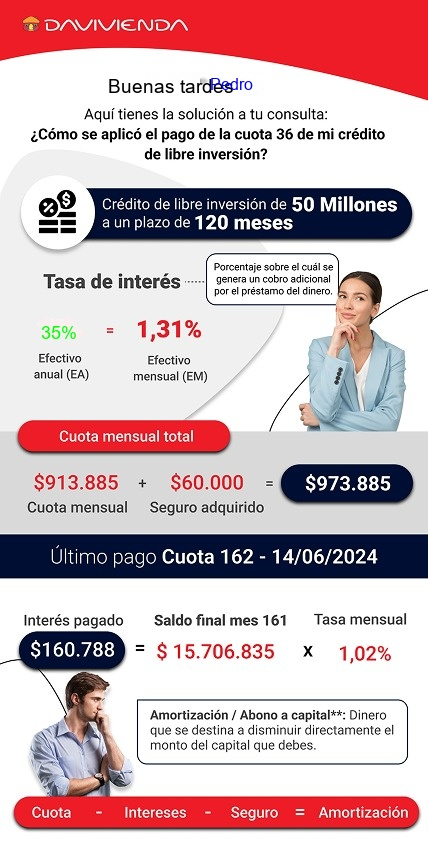
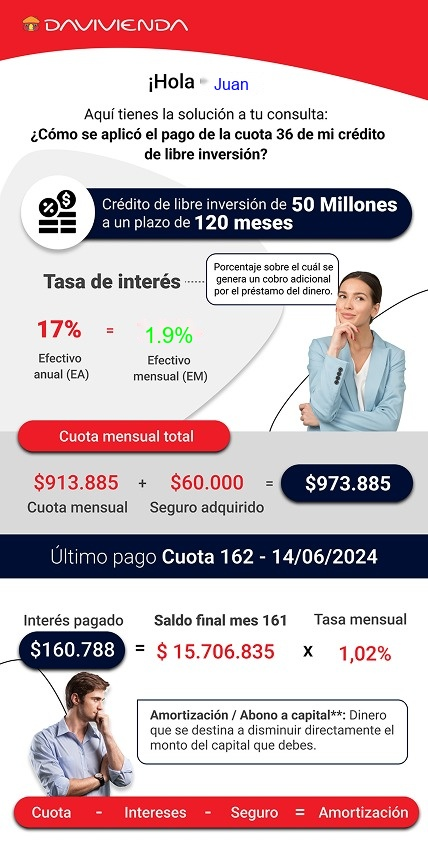
Codigos unidos

Changed region(s): [[0.243, 0.0923, 0.5771, 0.1231], [0.3037, 0.3692, 0.486, 0.4308], [0.0911, 0.3692, 0.1822, 0.4]]

diff --git a/chat2.py b/chat2.py
@@ -1,0 +1,122 @@
+import tkinter as tk
+from groq import Groq
+import subprocess
+
+# Configura tu clave de API de Groq
+client = Groq(api_key="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")  # <-- Pega tu API Key de Groq aquí
+
+# Palabras clave para detectar temas bancarios
+PALABRAS_CLAVE = ["interés", "intereses", "crédito", "capital", "cuota", "financiación", "financiamiento", "deuda", "plazo"]
+
+
+cedula_usuario = None
+
+def set_cedula(cedula):
+    global cedula_usuario
+    cedula_usuario = cedula
+
+def contiene_tema_relevante(texto):
+    texto = texto.lower()
+    return any(palabra in texto for palabra in PALABRAS_CLAVE)
+
+# def responder_mensaje(mensaje_usuario):
+#     try:
+#         respuesta = client.chat.completions.create(
+#             model="mixtral-8x7b-32768",
+#             messages=[
+#                 {
+#                     "role": "system",
+#                     "content": "Eres un asesor bancario experto. Tu objetivo es ayudar a los usuarios con dudas relacionadas con productos financieros, tasas de interés, créditos, simulaciones, inversiones y educación financiera. Responde de forma clara, amigable y profesional."
+#                 },
+#                 {
+#                     "role": "user",
+#                     "content": pregunta
+#                 }
+#             ]
+#         )
+#         respuesta_texto = respuesta.choices[0].message.content.strip()
+#     except Exception as e:
+#         respuesta_texto = f"Lo siento, ocurrió un error: {e}"
+
+def enviar_mensaje():
+    
+    pregunta = entry_usuario.get().strip()
+    if pregunta == "":
+        return
+
+    entry_usuario.delete(0, tk.END)
+    caja_texto.config(state="normal")
+    caja_texto.insert(tk.END, f"🧑 Tú: {pregunta}\n")
+    caja_texto.config(state="disabled")
+
+    # Palabras clave financieras
+    palabras_clave = ["interés", "intereses", "crédito", "créditos", "capital", "cuota", "cuotas"]
+    mensaje_tiene_palabras_clave = any(palabra in pregunta.lower() for palabra in palabras_clave)
+
+    try:
+        # Llamada a Groq con rol de asesor bancario
+        respuesta = client.chat.completions.create(
+            model="llama-3.3-70b-versatile",
+            messages=[
+                {
+                    "role": "system",
+                    "content": "Eres un asesor bancario experto llamado Vivi. Tu objetivo es ayudar a los usuarios con dudas relacionadas con productos financieros, tasas de interés, créditos, simulaciones, inversiones y educación financiera. Responde de forma clara, amigable y profesional. En el primer mensaje preséntate como Hola soy Vivi, un asistente de Davivienda, ¿En qué puedo ayudarte hoy?"
+                },
+                {
+                    "role": "user",
+                    "content": pregunta
+                }
+            ]
+        )
+
+        # Si hay palabras clave, da una respuesta más corta
+        if mensaje_tiene_palabras_clave:
+            respuesta_texto = "📊 Tengo un contenido para ti sobre este tema."
+        else:
+            respuesta_texto = respuesta.choices[0].message.content.strip()
+
+    except Exception as e:
+        respuesta_texto = f"Lo siento, ocurrió un error: {e}"
+
+    # Mostrar la respuesta del asistente
+    caja_texto.config(state="normal")
+    caja_texto.insert(tk.END, f"🤖 Vivi: {respuesta_texto}\n")
+    caja_texto.config(state="disabled")
+    caja_texto.see(tk.END)
+
+    # Mostrar botón justo debajo del mensaje si aplica
+    if mensaje_tiene_palabras_clave:
+        frame_boton = tk.Frame(caja_texto, bg="#F0F0F0")  # Fondo para que se vea mejor
+        boton_infografia = tk.Button(frame_boton, text="📥 Generar Infografía", command=generar_infografia)
+        boton_infografia.pack(pady=2)
+        caja_texto.window_create(tk.END, window=frame_boton)
+        caja_texto.insert(tk.END, "\n")
+        caja_texto.see(tk.END)
+
+def generar_infografia():
+    subprocess.run(["python", "imagen.py",cedula_usuario])
+
+def mostrar_chat_ai(root):
+    global caja_texto, entry_usuario, boton_infografia
+
+    ventana_chat = tk.Toplevel(root)
+    ventana_chat.title("Asistente Bancario")
+    ventana_chat.geometry("360x500")
+    ventana_chat.resizable(False, False)
+
+    caja_texto = tk.Text(ventana_chat, wrap="word", state="disabled", font=("Helvetica", 10), bg="#f8f8f8")
+    caja_texto.pack(expand=True, fill="both", padx=10, pady=10)
+
+    frame_entry = tk.Frame(ventana_chat)
+    frame_entry.pack(fill="x", padx=10, pady=(0, 10))
+
+    entry_usuario = tk.Entry(frame_entry, font=("Helvetica", 10))
+    entry_usuario.pack(side="left", expand=True, fill="x", padx=(0, 10))
+    entry_usuario.bind("<Return>", lambda event: enviar_mensaje())
+
+    boton_enviar = tk.Button(frame_entry, text="Enviar", command=enviar_mensaje, bg="#E0111B", fg="white")
+    boton_enviar.pack(side="right")
+
+    # Botón para generar infografía (oculto por defecto)
+    boton_infografia = tk.Button(ventana_chat, text="Generar Infografía", command=generar_infografia, bg="#0d6efd", fg="white")
+    boton_infografia.pack_forget()

diff --git a/Interfaz.py b/Interfaz.py
@@ -3,10 +3,18 @@ from ttkbootstrap.constants import *
 from PIL import Image, ImageTk
 import pandas as pd
 import tkinter.messagebox as msg
+from tkinter import messagebox
 import tkinter as tk  # Agregado para botón con más control visual
+import subprocess
+
+import chat2
+from chat2 import mostrar_chat_ai
+
+
+
 
 # Cargar base de datos
-bd_path = "D:/Pasantia/Learny/BD.xlsx"
+bd_path = "BD.xlsx"
 df = pd.read_excel(bd_path)
 df["Cedula"] = df["Cedula"].astype(str).str.replace(".0", "", regex=False)
 df["Clave"] = df["Clave"].astype(str).str.replace(".0", "", regex=False)
@@ -42,12 +50,15 @@ def clear():
 # --------------------------
 # PANTALLAS
 # --------------------------
+
+#######################################################
+
 def mostrar_pantalla_inicio():
     clear()
     canvas = ttk.Canvas(root, width=360, height=750)
     canvas.pack()
 
-    imagen_inicio = Image.open("D:/Pasantia/Learny/IMG/Imagen1.png").resize((360, 750))
+    imagen_inicio = Image.open("IMAGENES/Imagen1.png").resize((360, 750))
     bg_img1 = ImageTk.PhotoImage(imagen_inicio)
     canvas.create_image(0, 0, anchor="nw", image=bg_img1)
     canvas.bg_img = bg_img1
@@ -60,7 +71,7 @@ def mostrar_pantalla_login():
     canvas = ttk.Canvas(root, width=360, height=750)
     canvas.pack()
 
-    imagen_login = Image.open("D:/Pasantia/Learny/IMG/Imagen2.png").resize((360, 750))
+    imagen_login = Image.open("IMAGENES/Imagen2.png").resize((360, 750))
     bg_img2 = ImageTk.PhotoImage(imagen_login)
     canvas.create_image(0, 0, anchor="nw", image=bg_img2)
     canvas.bg_img = bg_img2
@@ -94,12 +105,15 @@ def mostrar_pantalla_login():
 
     def verificar_entrada(event):
         cedula = entry_documento.get().strip()
+        if cedula:
+            chat2.set_cedula(cedula)
         if cedula in df["Cedula"].values:
             btn_continuar.configure(state="normal", style="DaviviendaRed.TButton")
         else:
             btn_continuar.configure(state="disabled", style="secondary.TButton")
 
     entry_documento.bind("<KeyRelease>", verificar_entrada)
+    
 
 def mostrar_pantalla_clave(cedula):
     global cliente_activo
@@ -107,7 +121,7 @@ def mostrar_pantalla_clave(cedula):
     canvas = ttk.Canvas(root, width=360, height=750)
     canvas.pack()
 
-    imagen_clave = Image.open("D:/Pasantia/Learny/IMG/Imagen3.png").resize((360, 750))
+    imagen_clave = Image.open("IMAGENES/Imagen3.png").resize((360, 750))
     bg_img3 = ImageTk.PhotoImage(imagen_clave)
     canvas.create_image(0, 0, anchor="nw", image=bg_img3)
     canvas.bg_img = bg_img3
@@ -161,13 +175,13 @@ def mostrar_pantalla_principal():
     canvas = ttk.Canvas(root, width=360, height=750)
     canvas.pack()
 
-    imagen_main = Image.open("D:/Pasantia/Learny/IMG/Imagen4.png").resize((360, 750))
+    imagen_main = Image.open("IMAGENES/Imagen4.png").resize((360, 750))
     bg_img4 = ImageTk.PhotoImage(imagen_main)
     canvas.create_image(0, 0, anchor="nw", image=bg_img4)
     canvas.bg_img = bg_img4
 
     # Cargar ícono sin fondo visible
-    icono = Image.open("D:/Pasantia/Learny/IMG/Icono.png").resize((60, 60))
+    icono = Image.open("IMAGENES/Icono.png").resize((60, 60))
     icono_img = ImageTk.PhotoImage(icono)
 
     # Dibujar directamente sobre el canvas (sin botón)
@@ -176,7 +190,8 @@ def mostrar_pantalla_principal():
 
     # Crear una zona invisible encima del ícono que actúe como botón
     def on_click(event):
-        msg.showinfo("Soporte", "Este botón abrirá el chat de asistencia.")
+        # msg.showinfo("Soporte", "Este botón abrirá el chat de asistencia.")
+        mostrar_chat_ai(root)
 
     canvas.tag_bind(icono_canvas, "<Button-1>", on_click)
 

diff --git a/chatbot.py b/chatbot.py
@@ -1,0 +1,92 @@
+import tkinter as tk
+from tkinter import messagebox
+from groq import Groq
+
+def get_ai_response(query):
+    client = Groq(api_key="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")  # Reemplaza con tu API real
+    chat_completion = client.chat.completions.create(
+        messages=[
+            {
+                "role": "system",
+                "content": "Eres Learny, un asistente conversacional simpático, paciente, y con sentido del humor. Siempre explicas las cosas de forma clara y usas ejemplos sencillos si es posible. Hablas unicamente en español."
+            },
+            {
+                "role": "user",
+                "content": query
+            }
+        ],
+        model="llama-3.3-70b-versatile",
+    )
+    return chat_completion.choices[0].message.content
+
+def responder_mensaje(mensaje):
+    mensaje = mensaje.lower()
+
+    temas_bancarios = ["interés", "intereses", "crédito", "capital", "financiación"]
+    
+    if any(tema in mensaje for tema in temas_bancarios):
+        respuesta = "Claro, puedo ayudarte con temas financieros. ¿Quieres ver una infografía?"
+        return {"texto": respuesta, "mostrar_boton": True}
+    else:
+        respuesta = "Hola, soy Learny, tu asistente bancario. ¿En qué puedo ayudarte hoy?"
+        return {"texto": respuesta, "mostrar_boton": False}
+
+def mostrar_chat_ai(parent):
+    ventana_chat = tk.Toplevel(parent)
+    ventana_chat.title("Chat con Learny")
+    ventana_chat.geometry("360x500")
+    ventana_chat.configure(bg="#f0f0f0")
+
+    # Marco con scroll
+    marco_chat = tk.Canvas(ventana_chat, bg="#f0f0f0", bd=0, highlightthickness=0)
+    scrollbar = tk.Scrollbar(ventana_chat, command=marco_chat.yview)
+    marco_chat.configure(yscrollcommand=scrollbar.set)
+
+    frame_mensajes = tk.Frame(marco_chat, bg="#f0f0f0")
+    marco_chat.create_window((0, 0), window=frame_mensajes, anchor="nw")
+
+    def on_frame_configure(event):
+        marco_chat.configure(scrollregion=marco_chat.bbox("all"))
+
+    frame_mensajes.bind("<Configure>", on_frame_configure)
+
+    marco_chat.pack(side=tk.TOP, fill=tk.BOTH, expand=True)
+    scrollbar.pack(side=tk.RIGHT, fill=tk.Y)
+
+    # Entrada de texto
+    entrada = tk.Entry(ventana_chat, font=("Helvetica", 10))
+    entrada.pack(fill=tk.X, padx=10, pady=5)
+    entrada.focus()
+
+    def mostrar_burbuja(frame, texto, lado="izquierda", bg="white", fg="black"):
+        burbuja = tk.Label(
+            frame,
+            text=texto,
+            bg=bg,
+            fg=fg,
+            wraplength=250,
+            justify="left",
+            font=("Helvetica", 10),
+            padx=10,
+            pady=5
+        )
+        burbuja.pack(anchor="e" if lado == "derecha" else "w", padx=10, pady=5)
+        ventana_chat.update_idletasks()
+        marco_chat.yview_moveto(1.0)  # Auto-scroll al final
+
+    def enviar():
+        mensaje = entrada.get().strip()
+        if mensaje == "":
+            return
+        mostrar_burbuja(frame_mensajes, f"Tú: {mensaje}", lado="derecha", bg="#DCF8C6", fg="black")
+        entrada.delete(0, tk.END)
+        ventana_chat.update()
+
+        try:
+            respuesta = get_ai_response(mensaje)
+            mostrar_burbuja(frame_mensajes, f"Learny: {respuesta}", lado="izquierda", bg="white", fg="black")
+        except Exception as e:
+            mostrar_burbuja(frame_mensajes, "Error al conectar con Learny.", lado="izquierda", bg="red", fg="white")
+            print("Error:", e)
+
+    entrada.bind("<Return>", lambda event: enviar())

diff --git a/imagen.py b/imagen.py
@@ -4,13 +4,20 @@ import numpy as np
 import pytesseract
 from pytesseract import Output
 from PIL import Image, ImageDraw, ImageFont
+import sys
+import pandas as pd
+import chat2
 
 # Ruta de Tesseract-OCR
 pytesseract.pytesseract.tesseract_cmd = r'C:\Program Files\Tesseract-OCR\tesseract.exe'
 
 
 
+cedula_recuperada=None
+
 def analyze_and_replace_text(input_image_path, output_image_path, texts_to_replace, new_texts, text_styles):
+
+
     # Leer la imagen de entrada
     image = cv2.imread(input_image_path)
 
@@ -75,15 +82,43 @@ def analyze_and_replace_text(input_image_path, output_image_path, texts_to_repla
     cv2.destroyAllWindows()
 
 
-# Rutas de la imagen de entrada y salida
-input_image_path = 'Learny-master\IMAGENES\Infografia.jpg'
 
-output_image_path = 'Learny-master\IMAGENES\Infografia2.jpg'
+#Traer cedula
+if len(sys.argv) > 1:
+        cedula_recuperada = sys.argv[1]
+        print(f"Cédula recibida: {cedula_recuperada}")
+        # Aquí va la lógica para generar la infografía con la cédula
+else:
+        print("No se recibió cédula")
+
+
+df = pd.read_excel('BD.xlsx', dtype={'Cedula': str})
+df['Cedula'] = df['Cedula'].str.strip()
+
+# Buscar la fila con la cédula
+fila = df[df['Cedula'] == cedula_recuperada]
+
+if fila.empty:
+    print(f"No se encontró la cédula {cedula_recuperada} en la base de datos.")
+    sys.exit(1)  # Detener ejecución si no se encontró
+else:
+    print("Fila encontrada:", fila)
+
+# Rutas de la imagen de entrada y salida
+input_image_path = 'IMAGENES\Infografia.jpg'
+
+output_image_path = 'IMAGENES\Infografia2.jpg'
 
 print("¿Existe la imagen?", os.path.exists(input_image_path))
+
+# Obtener datos de la fila
+saldo = fila.iloc[0]['Saldo TC']
+nombre = fila.iloc[0]['Nombre']
+tasa = fila.iloc[0]['Tasa de interes']
+
 # Texto a buscar y reemplazar
-texts_to_replace = ['Hola', 'Carlos', '17%']
-new_texts = ['Buenas tardes', 'Pedro', '35%']
+texts_to_replace = ['50', 'Carlos', '1,31%']
+new_texts = [str(saldo), nombre, str(tasa)]
 
 # Estilos de texto personalizados
 text_styles = [
